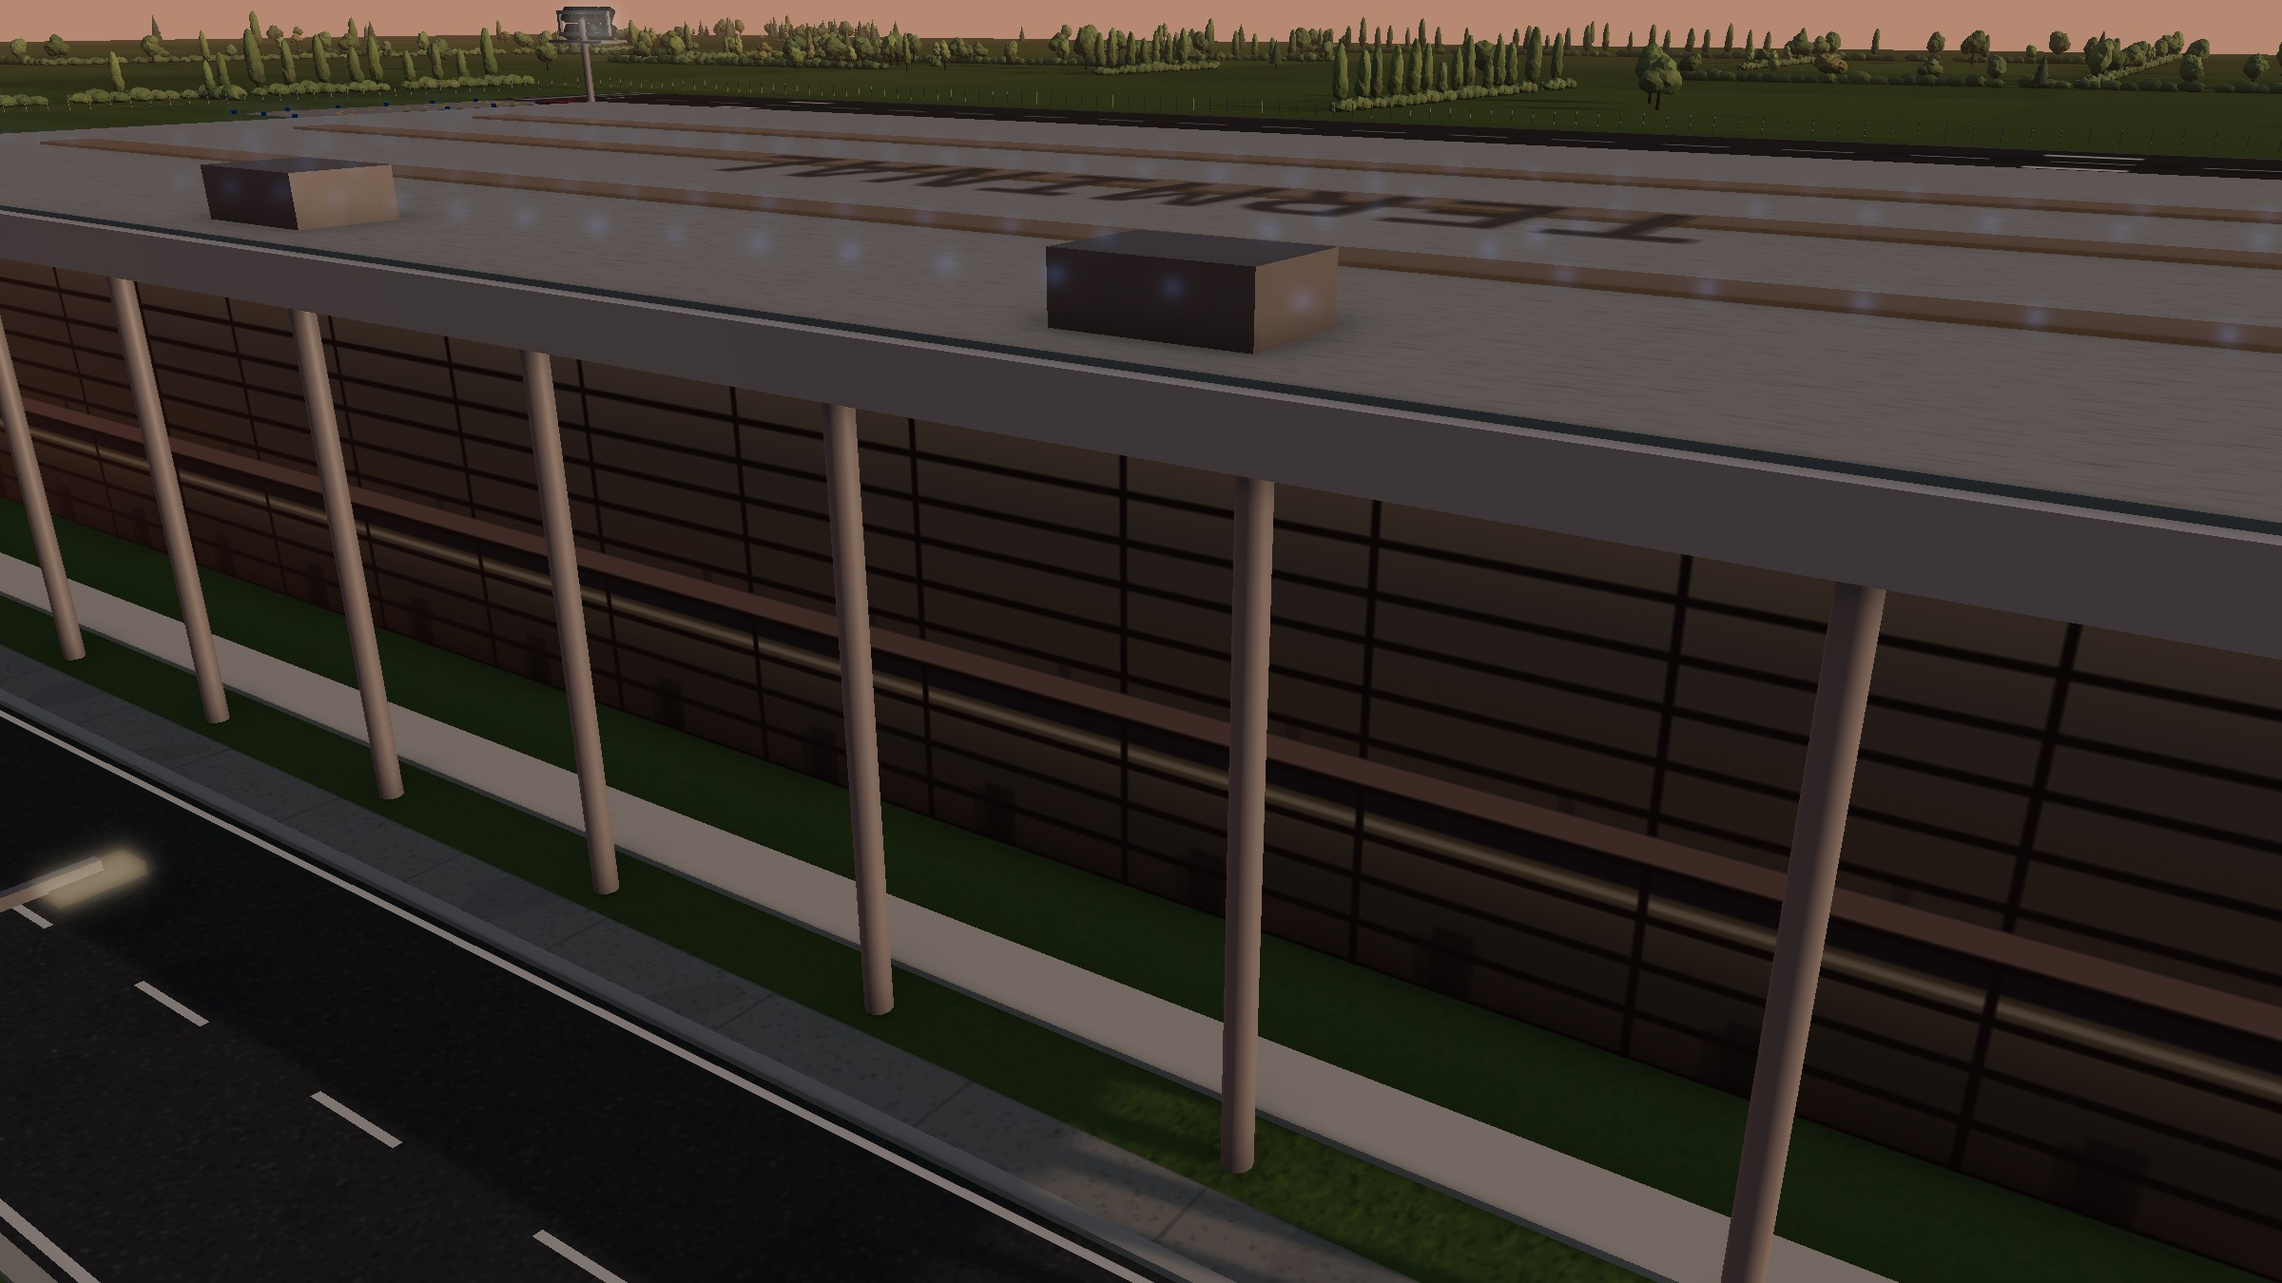
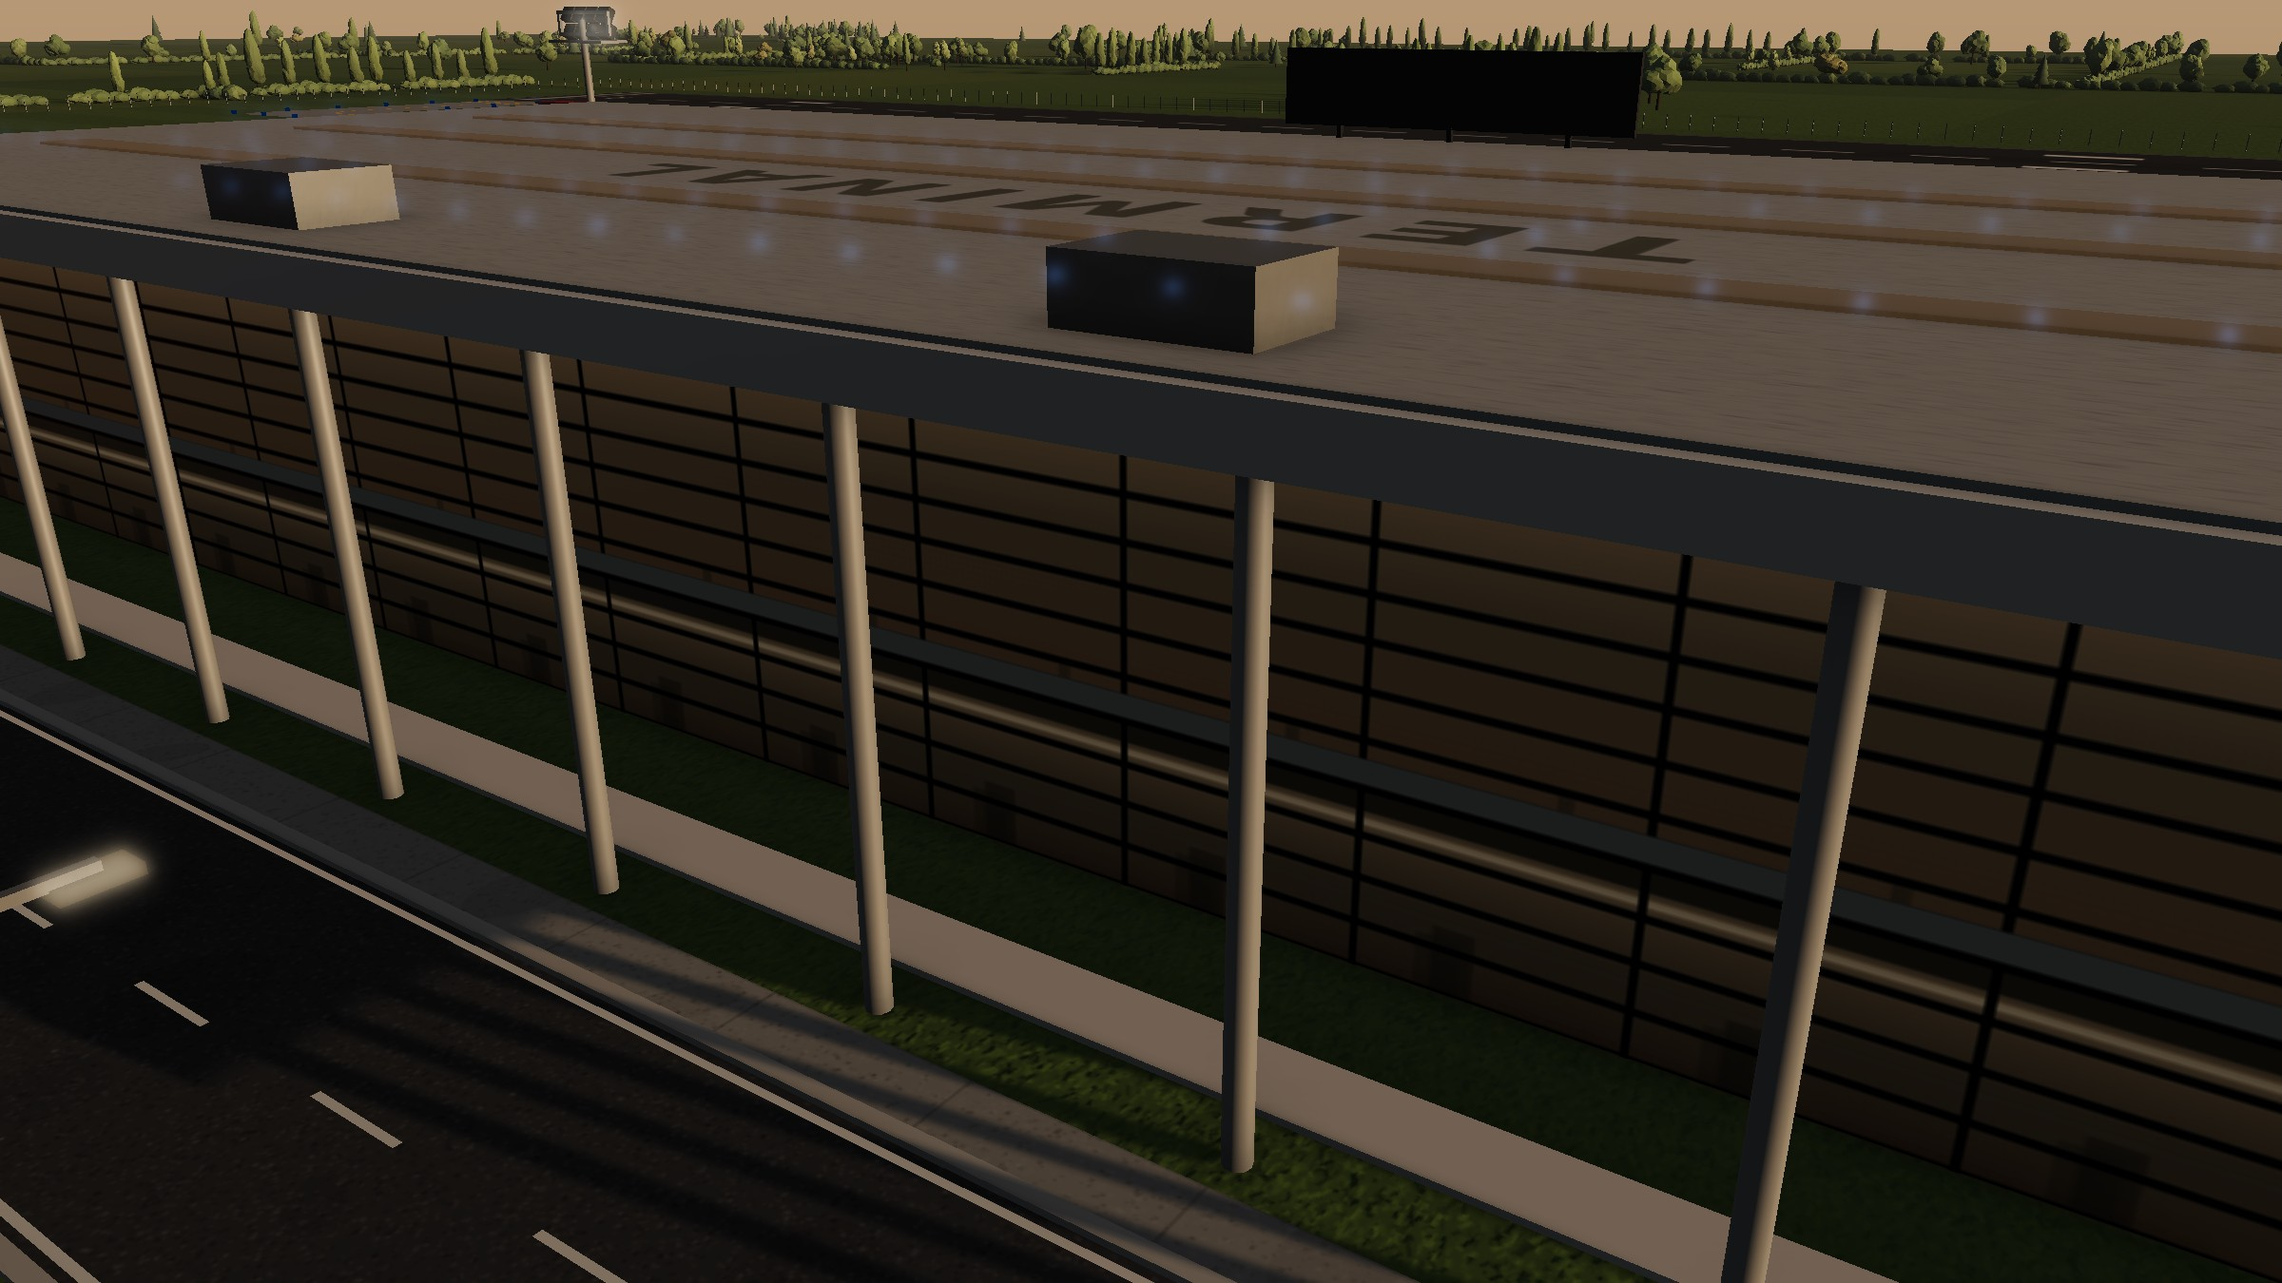
Check the buildings in a built-up airport, fix label, fire station, fuel farm and mast defects (#98)
* Screenshots: a built-up airport to check the buildings

A ?debug hook draws a test layout (aab.showLayout); the screenshot script shows the Terminal and Cargo Hub with
wings, every Support Building, and buildings facing north, east and west. SHOTS=buildings (a Screenshots workflow
input) takes only those close-ups.

Claude-Session: https://claude.ai/code/session_017hX3QnC5DmNMeZd9roDefn

* Update README screenshots

* Buildings: fix labels, the fire station roof and forecourt, fuel farm lamps, doubled flood masts

- Names on buildings facing east or west turn with the building instead of running across it into the Taxiway.
- TERMINAL and CARGO sit between skylight bands (a skylight cut through TERMINAL; CARGO ran under the high-bay).
- The Fire & Rescue Station's roof no longer flickers against its red band; its crash tenders stand inside the
  footprint behind the name, with the blue beacon on a tender instead of in the air in front.
- The Fuel Farm's lamps stand on poles; its bund wall and the De-icing Pad's front line stay behind the name, and the
  De-icing Pad's name is painted on the pad instead of under it.
- Where two buildings meet, one flood mast serves both.

Claude-Session: https://claude.ai/code/session_017hX3QnC5DmNMeZd9roDefn

* Update README screenshots

* Docs: building pictures in the README, names and flood masts in the design doc

Claude-Session: https://claude.ai/code/session_017hX3QnC5DmNMeZd9roDefn

* Update README screenshots
[…]

diff --git a/src/render/buildings.ts b/src/render/buildings.ts
@@ -322,13 +322,18 @@ class Frame {
     return Vector3.TransformCoordinates(new Vector3(x, y, z), this.root.computeWorldMatrix(true));
   }
   /**
-   * A name painted flat along the building's length, centred on a local point. It reads left to right from the south
-   * (buildings facing north or south) or bottom to top (facing east or west), never upside down.
+   * A name painted flat at a local point, `w` along the building's length: it reads from the south on buildings facing
+   * south or north and from the airside on buildings facing east or west.
    */
   label(text: string, x: number, y: number, z: number, w: number, h: number, colour = '#4a4f55'): void {
     const p = this.world(x, y, z);
-    const yaw = this.side === 'east' || this.side === 'west' ? -Math.PI / 2 : 0;
+    const yaw = this.side === 'east' || this.side === 'west' ? TURN[this.side] : 0;
     this.kit.label(text, p.x, -p.z, w * METRE, h * METRE, p.y + 0.03, colour, yaw);
+  }
+  /** A flood mast at a local point; one already standing within 24 m (the next building's, where two meet) serves both. */
+  flood(x: number, y: number, z: number): void {
+    const p = this.world(x, y, z);
+    if (!this.kit.floods.some((q) => Math.hypot(q.x - p.x, q.z - p.z) < 24 * METRE)) this.kit.floods.push(p);
   }
   /**
    * A name sign on short posts on a roof edge, facing the airside: white capitals on a dark plate `h` m tall (as wide
@@ -437,7 +442,7 @@ export function buildTerminal(kit: BuildingKit, s: TileRect, airside: Facing): v
     f.label('TERMINAL', 0, ry + 2.02, (za + zb) / 2, Math.min(L * 0.6, 110), Math.min(11, zb - za - 1));
     f.sign('TERMINAL', 0, ry + 2, d0 + 1.2, 4.2, M.darkSteel);
   }
-  for (const x of [-L / 2 - 6, L / 2 + 6]) kit.floods.push(f.world(x, 28, zS - 6));
+  for (const x of [-L / 2 - 6, L / 2 + 6]) f.flood(x, 28, zS - 6);
   f.finish();
 }
 
@@ -500,7 +505,7 @@ export function buildCargoHub(kit: BuildingKit, s: TileRect, airside: Facing): v
     f.label('CARGO', hx, hh + 0.45, (za + zb) / 2, Math.min(hallL * 0.55, 60), Math.min(11, zb - za - 1), '#3a3f45');
     f.sign('CARGO', hx, hh + 0.2, zf + 0.6, 3.6, M.darkSteel);
   }
-  for (const x of [-L / 2 - 6, L / 2 + 6]) kit.floods.push(f.world(x, 28, zS - 6));
+  for (const x of [-L / 2 - 6, L / 2 + 6]) f.flood(x, 28, zS - 6);
   f.finish();
 }
 
@@ -608,11 +613,11 @@ export function buildSupport(kit: BuildingKit, s: TileRect, role: SupportRole, f
     }
   } else if (role === 'fireRescueStation') {
     const bw = L - 14;
-    const zf = zS + 14; // forecourt in front for the crash tenders
+    const zf = zS + 18; // forecourt in front for the crash tenders, behind the name
     const bx = -7;
     f.box(bw, 9, zN - 2 - zf, bx, 0, (zf + zN - 2) / 2, M.offWhite);
     f.box(bw + 0.4, 1.4, zN - 2 - zf + 0.4, bx, 9, (zf + zN - 2) / 2, M.red);
-    f.box(bw - 0.6, 0.2, zN - 2 - zf - 0.6, bx, 10.2, (zf + zN - 2) / 2, M.roof);
+    f.box(bw - 0.6, 0.15, zN - 2 - zf - 0.6, bx, 10.4, (zf + zN - 2) / 2, M.roof);
     const bay = glass(kit, `fire-bay-${id}`, 7, { bay: 7, h: 7, hstep: 0.9, vstep: 7, seed: 41, top: '#56606a', bottom: '#2a3038', warm: [235, 240, 255] });
     const n = Math.max(1, Math.floor(bw / 8.2));
     for (let k = 0; k < n; k++) {
@@ -630,15 +635,17 @@ export function buildSupport(kit: BuildingKit, s: TileRect, role: SupportRole, f
     const nT = Math.min(2, n);
     for (let k = 0; k < nT; k++) {
       const x = bx - bw / 2 + (k + 0.5) * (bw / n);
-      const z = zS + 7;
+      const z = zS + 11.2;
       f.box(4, 3.6, 12, x, 0.9, z, truck);
       f.box(4.1, 0.5, 12.1, x, 2.2, z, M.white);
       f.box(3.6, 2.2, 2.6, x, 1.4, z - 6.4, truck);
       for (const wz of [-4, -0.5, 3.5]) for (const sxx of [-2, 2]) f.cyl(1.4, 0.8, x + sxx, 0.7, z + wz, M.rubber, { lying: true, tess: 12 });
     }
-    f.lamps(kit.lamp(`fire-blue-${id}`, '#2a6bff', 0.3), [[bx - bw / 2 + 0.5 * (bw / n), 4.8, zS + 0.8]], 0.6);
+    f.lamps(kit.lamp(`fire-blue-${id}`, '#2a6bff', 0.3), [[bx - bw / 2 + 0.5 * (bw / n), 4.6, zS + 11.2 - 5.2]], 0.6); // on the first tender's cab end
   } else if (role === 'fuelFarm') {
-    for (const [w, d, x, z] of [[L - 4, 0.6, 0, zN - 2], [L - 4, 0.6, 0, zS + 2], [0.6, D - 4, -L / 2 + 2, 0], [0.6, D - 4, L / 2 - 2, 0]] as const) f.box(w, 1.4, d, x, 0, z, M.offWhite);
+    // the bund wall, behind the name
+    const zb = zS + 3.6;
+    for (const [w, d, x, z] of [[L - 4, 0.6, 0, zN - 2], [L - 4, 0.6, 0, zb], [0.6, zN - 2 - zb, -L / 2 + 2, (zb + zN - 2) / 2], [0.6, zN - 2 - zb, L / 2 - 2, (zb + zN - 2) / 2]] as const) f.box(w, 1.4, d, x, 0, z, M.offWhite);
     const tank = pbr(kit.scene, `tank-${id}`, '#e8e9e8', 0.45, 0.3);
     const band = pbr(kit.scene, `tank-band-${id}`, '#2f6f8f', 0.5, 0.3);
     const n = Math.max(1, Math.floor((L - 6) / 14));
@@ -651,8 +658,9 @@ export function buildSupport(kit: BuildingKit, s: TileRect, role: SupportRole, f
       f.cyl(1, 1.6, x, 9.5, z, M.offWhite, { top: 2, bottom: dia, tess: 32 });
     }
     for (let k = 0; k < 3; k++) f.cyl(0.6, L - 8, 0, 1.6 + k * 0.8, zS + 5, k === 1 ? M.hvac : M.yellow, { lying: true, tess: 10 });
-    f.box(8, 4, 6, L / 2 - 8, 0, zS + 6, M.white);
-    f.lamps(M.whiteLamp, [[-L / 2 + 3, 6, zS + 3], [L / 2 - 3, 6, zS + 3]], 0.7);
+    f.box(8, 4, 6, L / 2 - 8, 0, zS + 7, M.white);
+    for (const x of [-L / 2 + 3, L / 2 - 3]) f.cyl(0.3, 6, x, 0, zS + 4.5, M.steel, { tess: 6 });
+    f.lamps(M.whiteLamp, [[-L / 2 + 3, 6.1, zS + 4.5], [L / 2 - 3, 6.1, zS + 4.5]], 0.7);
   } else {
     // de-icing pad: concrete with blue lines, two boom trucks, glycol tanks
     const pad = MeshBuilder.CreateGround('de-icing', { width: L - 2, height: D - 2 }, kit.scene);
@@ -661,7 +669,8 @@ export function buildSupport(kit: BuildingKit, s: TileRect, role: SupportRole, f
     pad.material = pbr(kit.scene, `de-icing-${id}`, '#a6a7a2', 0.9);
     pad.receiveShadows = true;
     const blue = pbr(kit.scene, `de-icing-blue-${id}`, '#7fc4ff', 0.6);
-    for (const [w, d, x, z] of [[L - 4, 0.5, 0, zN - 2], [L - 4, 0.5, 0, zS + 2], [0.5, D - 4, -L / 2 + 2, 0], [0.5, D - 4, L / 2 - 2, 0]] as const) f.box(w, 0.06, d, x, 0.3, z, blue);
+    const zb = zS + 4.6; // the front line, behind the name
+    for (const [w, d, x, z] of [[L - 4, 0.5, 0, zN - 2], [L - 4, 0.5, 0, zb], [0.5, zN - 2 - zb, -L / 2 + 2, (zb + zN - 2) / 2], [0.5, zN - 2 - zb, L / 2 - 2, (zb + zN - 2) / 2]] as const) f.box(w, 0.06, d, x, 0.3, z, blue);
     const body = pbr(kit.scene, `de-ice-truck-${id}`, '#e9a320', 0.45, 0.2, true);
     for (const [x, ry] of [[-L / 4, 0.4], [L / 4 - 4, -0.5]] as const) {
       const r = new TransformNode('de-ice-truck', kit.scene);
@@ -683,6 +692,8 @@ export function buildSupport(kit: BuildingKit, s: TileRect, role: SupportRole, f
     }
     for (const x of [L / 2 - 5, L / 2 - 9]) f.cyl(3, 6, x, 0, zN - 5, M.white, { tess: 16 });
   }
-  f.label(NAMES[role], 0, 0.12, zS + 1.6, Math.min(L - 4, 34), 3.2, '#cfd8d4');
+  // the De-icing Pad's name is painted on the pad (it stands 0.3 m proud), the others' on the ground
+  const onPad = role === 'deIcingPad';
+  f.label(NAMES[role], 0, onPad ? 0.42 : 0.12, onPad ? zS + 2.6 : zS + 1.6, Math.min(L - 4, 34), 3.2, '#cfd8d4');
   f.finish();
 }

diff --git a/src/main.ts b/src/main.ts
@@ -18,6 +18,7 @@ import { showMainMenu } from './ui/mainMenu';
 import { showDayReport } from './ui/dayReport';
 import { showNotice } from './ui/resume';
 import { BUILD, copyText } from './ui/seed';
+import { createLayout, type Structure } from './sim/layout';
 
 // `?seed=123` makes every New Run use that seed (used for README screenshots and bug reports).
 const fixedSeed = Number(new URLSearchParams(location.search).get('seed'));
@@ -256,11 +257,15 @@ async function start(): Promise<void> {
     if (document.hidden && options.runInBackground) play(Math.min(elapsed, 5_000));
   }, 1_000);
   let frames = 0;
-  // `?debug` hands the view and the Run to scripts (the README screenshots aim the camera and fix the quality with it)
+  // `?debug` hands the view and the Run to scripts (the README screenshots aim the camera and fix the quality with it).
+  // `showLayout(structures)` draws other structures in place of the Run's (only the picture: the Day plays on with the
+  // Run's layout) until the next Day or Plan Mode, or `showLayout()`, which draws the Run's layout again.
   if (new URLSearchParams(location.search).has('debug')) {
     let drawn = 0;
     view.onFrame(() => drawn++);
-    Object.assign(window, { aab: { view, sim: () => sim, layout: () => run.layout, frames: () => drawn } });
+    const showLayout = (structures?: readonly Structure[]) =>
+      view.setLayout(structures ? createLayout(run.layout.width, run.layout.height, structures) : run.layout);
+    Object.assign(window, { aab: { view, sim: () => sim, layout: () => run.layout, frames: () => drawn, showLayout } });
   }
   view.onFrame((ms) => {
     lastBackground = performance.now();

diff --git a/docs/game-design.md b/docs/game-design.md
@@ -359,7 +359,7 @@ A reward for winning a Week that also steers the rest of the Run (`contracts.ts 
   Building names are clean sans-serif capitals with open letter spacing (not the UI's monospace font, which Stand
   numbers keep): painted on the roof of a Terminal or Cargo Hub (dark grey, between two skylight bands, readable from
   above) and on the ground in front of the Tower and Support Buildings (pale), always running along the building and
-  never upside down from the south (bottom to top on buildings facing east or west). Terminals and Cargo Hubs also
+  never upside down (on buildings facing east or west they read from the airside). Terminals and Cargo Hubs also
   carry a name sign on their airside roof edge: white capitals on a dark plate, lit at night.
   - **Terminal** ("Deck"): gate lounges behind glass at apron level, a light stone floor band, a hall about 20 m tall
     glazed with horizontal bars, stone end walls with tall slot windows, and one flat roof deck over everything on
@@ -373,15 +373,20 @@ A reward for winning a Week that also steers the rest of the Run (`contracts.ts 
   - **ATC Tower:** a white two-storey base with ribbon windows, a slim round white shaft with a lit stair slit, flared
     equipment floors with a lit window band, a 12-sided cab of outward-sloping green-tinted glass (a faint green glow
     at night), a roof disc with antennas and a radar dome, red obstruction lights, and TWR on the ground.
-  - **Support Buildings**, each with its name on the ground in front: Fire & Rescue Station (white with a red band,
-    glazed bay doors lit white at night, a drill tower, two crash tenders on the forecourt, a blue beacon); Admin
+  - **Support Buildings**, each with its name on the ground in front (on the De-icing Pad, on the pad): Fire & Rescue
+    Station (white with a red band, glazed bay doors lit white at night, a drill tower, two crash tenders on the
+    forecourt facing out, a blue beacon on the first); Admin
     Office (four glass storeys behind stone fins); Airline Office (three glass storeys under a bronze crown); Ramp
     Agent Station (a low building with an orange roof edge and a vehicle shed with tugs and baggage carts); Fuel Farm
-    (white tanks with a blue band in a bund wall, a pipe rack and a pump house); De-icing Pad (blue-lined pad, two
+    (white tanks with a blue band in a bund wall, a pipe rack, a pump house and two lamp posts); De-icing Pad (blue-lined pad, two
     boom trucks, glycol tanks).
   - Flood masts (28 m, matt galvanised grey, tapering) stand at the front corners of Terminals and Cargo Hubs, a little
-    out on the apron side. Each head is a frame with a service platform and two rows of four floodlight housings
-    tilted down towards the apron; at night their lenses glow and the first four masts light the apron round them (real lights, so aircraft and vehicles there are lit too).
+    out on the apron side; where two buildings meet, one mast serves both. Each head is a frame with a service
+    platform and two rows of four floodlight housings tilted down towards the apron; at night their lenses glow and the
+    first four masts light the apron round them (real lights, so aircraft and vehicles there are lit too).
+  - Names painted on buildings and in front of them (TERMINAL, CARGO, the Support Buildings') run along the building's
+    front: on buildings facing south or north they read from the south, on buildings facing east or west from the
+    airside.
 - **Grass strips** look like mown grass, not paving: a lighter green strip with mowing bands across it, white
   boundary markers along both edges and a row at each threshold, small designators, no centre line and never lights
   (the Runway Surface upgrade leaves them grass, and its offer says so when the airport has one).

diff --git a/README.md b/README.md
@@ -29,7 +29,9 @@ Then open http://localhost:8080. Versions and their images are listed under [Rel
 
 ### The look
 
-Day 1 at the best quality (`?quality=high`), from the starting view at five times of day and closer up.
+Day 1 at the best quality (`?quality=high`), from the starting view at five times of day and closer up. The last
+pictures show buildings a Day 1 airport lacks: the script draws a built-up test layout in place of the Run's
+(`?debug` → `aab.showLayout(structures)`, only the picture changes).
 
 | | |
 |---|---|
@@ -45,8 +47,17 @@ Day 1 at the best quality (`?quality=high`), from the starting view at five time
 | A taxiing aircraft | The same Stand in the evening sun |
 | ![A parked aircraft at night](docs/screenshots/look/parked-night.jpg) | ![The Terminal at night](docs/screenshots/look/terminal-night.jpg) |
 | A parked aircraft at night | The Terminal at night |
+| ![The Terminal and the Cargo Hub grown by two wings each](docs/screenshots/look/wings-day.jpg) | ![The wings at night](docs/screenshots/look/wings-night.jpg) |
+| The Terminal and the Cargo Hub, each grown by two wings | The same at night |
+| ![Every Support Building](docs/screenshots/look/support-day.jpg) | ![Every Support Building at night](docs/screenshots/look/support-night.jpg) |
+| Every Support Building: Ramp Agent Station, Admin and Airline Offices, Fire & Rescue, Fuel Farm, De-icing Pad | The same at night |
+| ![A Terminal facing north](docs/screenshots/look/facing-north.jpg) | ![A Cargo Hub facing east](docs/screenshots/look/facing-east.jpg) |
+| A Terminal facing north, onto Stands on its north side | A Cargo Hub facing east |
+| ![Support Buildings facing west](docs/screenshots/look/facing-west.jpg) | |
+| Support Buildings facing west onto a Taxiway | |
 
-The screenshots are taken automatically from the real game by the [Screenshots workflow](.github/workflows/screenshots.yml) whenever the UI changes (`scripts/screenshots.mjs`).
+The screenshots are taken automatically from the real game by the [Screenshots workflow](.github/workflows/screenshots.yml) whenever the UI changes (`scripts/screenshots.mjs`); run with the input `shots: buildings` it takes only the building
+pictures, a quick check after changing the buildings.
 
 - Domain language: [`CONTEXT.md`](CONTEXT.md)
 - Decisions: [`docs/adr/`](docs/adr). Babylon.js draws the airport in 3D; all game logic lives in a pure TypeScript simulation.
